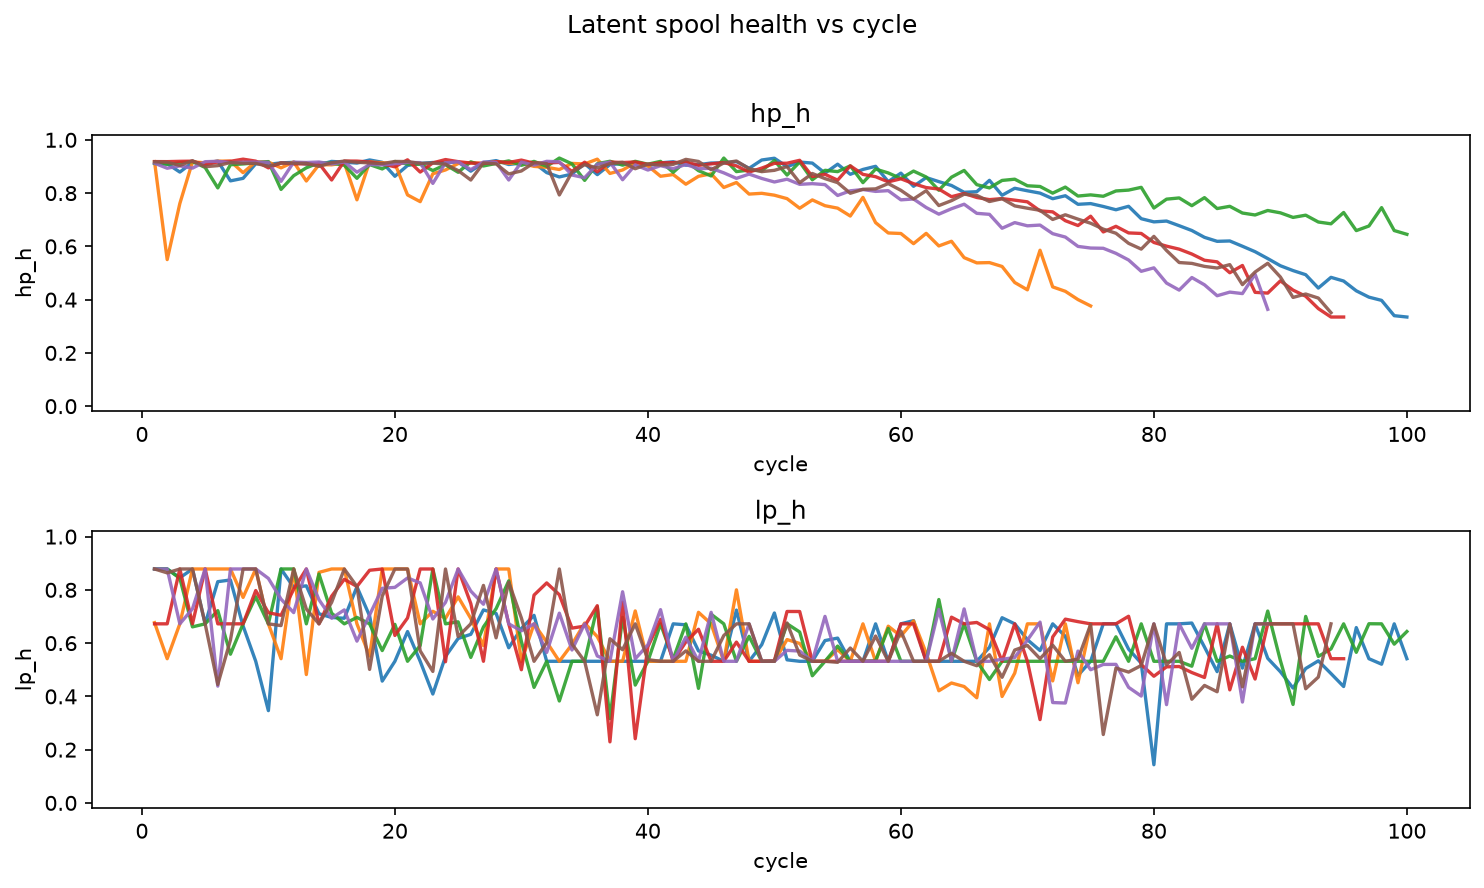
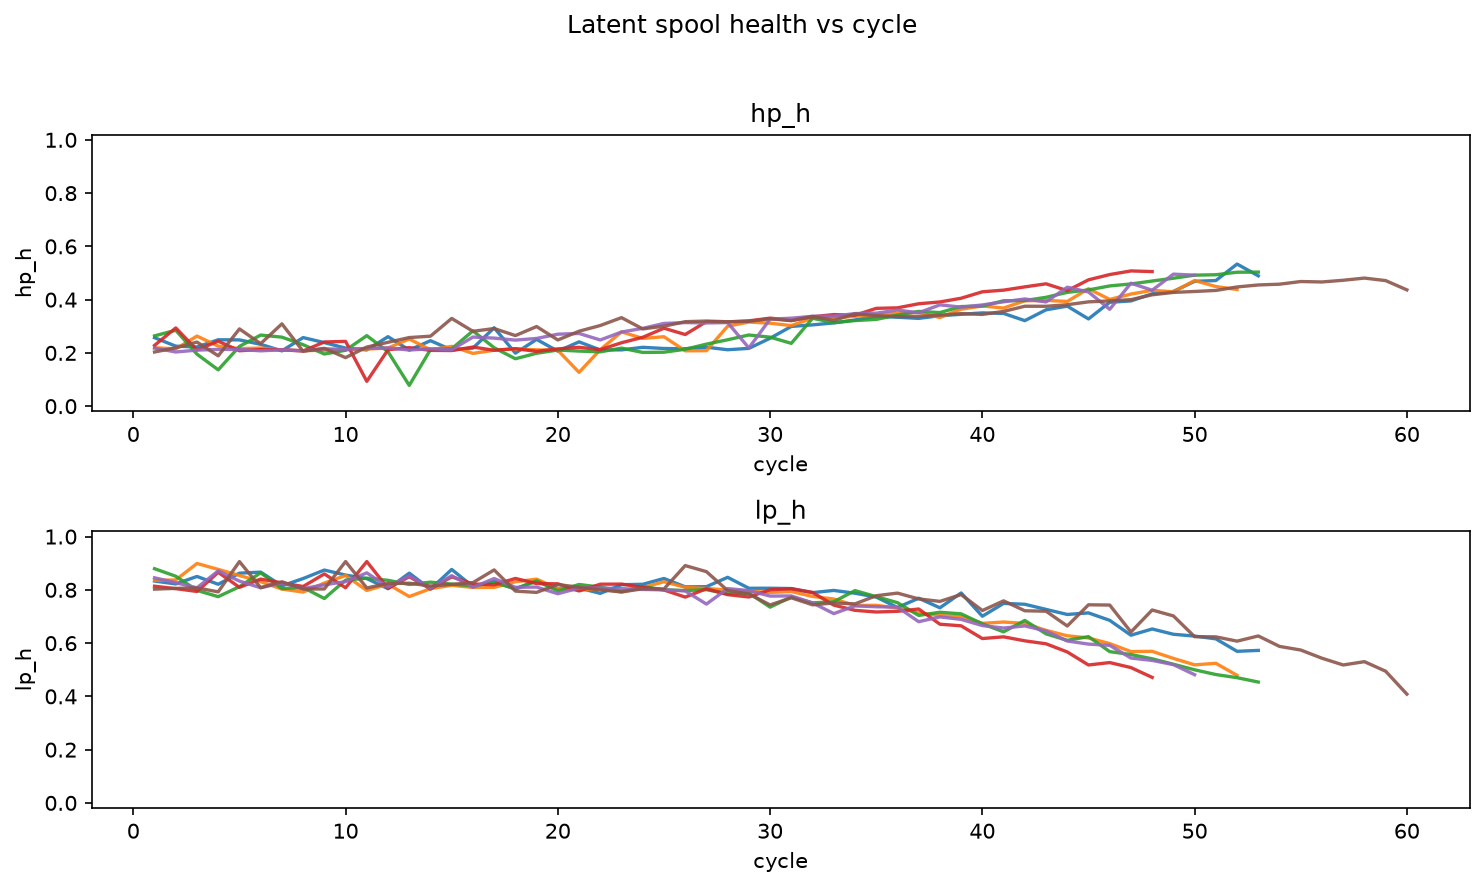
update

diff --git a/gft.py b/gft.py
@@ -81,18 +81,40 @@ def _fis(cols, centers, singletons):
 # A node with a theta target is a supervised leaf (output = theta_hat); a node
 # with target None is latent (spool damage in [0,1], or the RUL root).
 # Children must precede parents. Max 3 inputs per node. Root must be named "RUL".
+#
+# MEMBERSHIP FUNCTIONS PER INPUT: an input is either a bare name (uses the
+# default n_terms passed to fit_gft/build_tree) or a ("name", k) pair giving
+# that input its own k fuzzy sets. Mix freely, e.g.
+#     ("hpt_eff", [("T48", 5), ("P40", 3), "P45"], "HPT_eff_mod")
+# gives T48 five sets, P40 three, P45 the default. A node's rule count is the
+# PRODUCT of its inputs' set counts, so (5, 3, 3) -> 45 rules.
 
 TREE = [
-    ("hpt_eff",  ["T48", "P40", "P45"], "HPT_eff_mod"),
-    ("hpt_flow", ["T48", "P40", "P45"], "HPT_flow_mod"),
-    ("lpt_eff",  ["T50", "P50", "epr"], "LPT_eff_mod"),
-    ("lpt_flow", ["T50", "P50", "epr"], "LPT_flow_mod"),
-    ("hp",  ["hpt_eff", "hpt_flow"], None),      # HP-shaft damage  (in [0,1])
-    ("lp",  ["lpt_eff", "lpt_flow"], None),      # LP-shaft damage  (in [0,1])
-    ("RUL", ["hp", "lp", "age"], None),          # prognosis        (root)
+    ("hpt_eff",  ["T48", "P40", "Nc"],   "HPT_eff_mod"),   # HP: eff  -> speed
+    ("hpt_flow", ["T48", "P40", "Ps30"], "HPT_flow_mod"),  # HP: flow -> pressure
+    ("lpt_eff",  ["T50", "P50", "Nf"],   "LPT_eff_mod"),   # LP: eff  -> speed
+    ("lpt_flow", ["T50", "P50", "P24"],  "LPT_flow_mod"),  # LP: flow -> pressure
+    ("hp",  ["hpt_eff", "hpt_flow"], None),      # global HP-shaft damage
+    ("lp",  ["lpt_eff", "lpt_flow"], None),      # global LP-shaft damage
+    ("RUL", ["hp", "lp", "age"], None),          # prognosis (root)
 ]
+# Inputs are REAL measured sensors only (C-MAPSS Table 2, X_s):
+#   Wf Nf Nc T24 T30 T48 T50 P15 P21 P24 Ps30 P40 P50.
+# Virtual sensors (Table 3, X_v: T40 P30 P45 W* epr Sm* NR* PCNfR phi) are NOT
+# used. Symmetric by construction: each shaft (HP=HPT, LP=Fan/LPC/LPT) gets an
+# eff + a flow leaf feeding a global shaft-damage node. Every degrading modifier
+# is supervised; in DS02 HPT_flow is ~constant, so its leaf simply predicts that
+# constant (the tight consequent box keeps it noise-free) -- and the same tree
+# still works on failure modes where HPT flow actually moves.
 
 CONDITIONS = ["alt", "Mach", "TRA", "T2"]
+
+
+def _parse_input(inp, default):
+    """('name', k) -> (name, k);  'name' -> (name, default)."""
+    if isinstance(inp, (tuple, list)):
+        return inp[0], int(inp[1])
+    return inp, default
 
 
 def _node_names(tree):
@@ -101,32 +123,45 @@ def _node_names(tree):
 
 def _leaf_sensors(tree):
     names = _node_names(tree)
-    return sorted({c for _, ins, _ in tree for c in ins
-                   if c not in names and c != "age"})
+    out = set()
+    for _, ins, _ in tree:
+        for raw in ins:
+            c, _k = _parse_input(raw, 0)
+            if c not in names and c != "age":
+                out.add(c)
+    return sorted(out)
 
 
-def build_tree(frame, tree=TREE, n_terms=5):
-    """Resolve inputs against the frame and fix the fuzzy centres. Also record
-    each node's OUTPUT domain (theta quantiles / [0,1]) so parents can place
-    their own input centres consistently."""
+def _domain_centers(dom, k):
+    """k centres over a child node's output domain (theta quantiles / [0,1])."""
+    kind, data = dom
+    return _centers(data, k) if kind == "theta" else np.linspace(0, 1, k)
+
+
+def build_tree(frame, tree=TREE, n_terms=3):
+    """Resolve inputs against the frame and fix the fuzzy centres. Each input's
+    number of membership functions is its per-input k (or the default n_terms).
+    Records each node's OUTPUT domain so parents can partition it consistently."""
     out_dom, meta = {}, []
     for name, inputs, target in tree:
         tgt = target if (target in frame.columns) else None
         ins = []
-        for inp in inputs:
+        for raw in inputs:
+            inp, k = _parse_input(raw, n_terms)
             if inp in out_dom:                                 # child node output
-                ins.append({"kind": "node", "src": inp, "centers": out_dom[inp]})
+                ins.append({"kind": "node", "src": inp,
+                            "centers": _domain_centers(out_dom[inp], k)})
             elif inp in frame.columns:                         # sensor / age
                 x = frame[inp].to_numpy(float)
                 mu, sd = float(x.mean()), float(x.std()) or 1.0
                 ins.append({"kind": "col", "src": inp, "mu": mu, "sd": sd,
-                            "centers": _centers((x - mu) / sd, n_terms)})
+                            "centers": _centers((x - mu) / sd, k)})
         if not ins:
             continue
         n_rules = int(np.prod([len(i["centers"]) for i in ins]))
-        # output domain: theta quantiles for supervised leaves, else [0,1]
-        out_dom[name] = (_centers(frame[tgt].to_numpy(float), n_terms)
-                         if tgt is not None else np.linspace(0, 1, n_terms))
+        # output domain for this node's parents: theta data (any resolution) or [0,1]
+        out_dom[name] = (("theta", frame[tgt].to_numpy(float))
+                         if tgt is not None else ("unit", None))
         meta.append({"name": name, "inputs": ins, "n_rules": n_rules,
                      "target": tgt, "root": name == "RUL"})
     return meta
@@ -145,8 +180,13 @@ def genome_bounds(meta, frame, rul_hi, cons_pad=0.25):
             a, b = 0.0, rul_hi
         elif m["target"] is not None:
             y = frame[m["target"]].to_numpy(float)
-            span = (y.max() - y.min()) or 1.0
-            a, b = y.min() - cons_pad * span, y.max() + cons_pad * span
+            span = float(y.max() - y.min())
+            if span <= 1e-9:                 # (near-)constant target: pin tightly
+                v = float(y.mean())          # -> the leaf predicts ~this constant
+                eps = max(1e-6, abs(v) * 1e-3)
+                a, b = v - eps, v + eps
+            else:
+                a, b = y.min() - cons_pad * span, y.max() + cons_pad * span
         else:
             a, b = 0.0, 1.0
         lo += [a] * m["n_rules"]
@@ -196,7 +236,7 @@ def _tournament(fit, rng):
     return idx[np.argmin(fit[idx])]
 
 
-def genetic_optimize(loss, lo, hi, pop=200, gens=120, seed=1, x0=None,
+def genetic_optimize(loss, lo, hi, pop=80, gens=120, seed=0, x0=None,
                      verbose=True, label=""):
     """Tournament selection + BLX-alpha crossover + Gaussian mutation, with
     elitism and a slowly cooling mutation step. Returns (best, history)."""
@@ -215,7 +255,7 @@ def genetic_optimize(loss, lo, hi, pop=200, gens=120, seed=1, x0=None,
             lo_c = np.minimum(pa, pb) - 0.3 * np.abs(pa - pb)
             hi_c = np.maximum(pa, pb) + 0.3 * np.abs(pa - pb)
             child = rng.uniform(lo_c, hi_c)
-            mask = rng.random(n) < 0.35
+            mask = rng.random(n) < 0.2
             child[mask] += rng.normal(0, 1, mask.sum()) * sigma * span[mask]
             newP.append(np.clip(child, lo, hi))
         P = np.array(newP)
@@ -223,7 +263,7 @@ def genetic_optimize(loss, lo, hi, pop=200, gens=120, seed=1, x0=None,
         if fit.min() < best_fit:
             best_fit, best = fit.min(), P[fit.argmin()].copy()
         history.append(best_fit)
-        sigma = max(0.1, sigma * 0.97)
+        sigma = max(0.05, sigma * 0.97)
         if verbose and (t % 10 == 0 or t == gens - 1):
             print(f"  [{label}] gen {t + 1:3d}/{gens}  best={best_fit:.4f}  sigma={sigma:.3f}")
     return best, history
@@ -259,21 +299,42 @@ def apply_baselines(frame, coefs, conds):
     return f
 
 
+def smooth_inputs(frame, cols, span):
+    """EWMA-smooth `cols` along cycles WITHIN each unit (span<=1 = no-op).
+
+    The FIS is memoryless: it maps one cycle's cruise-mean sensors to theta_hat
+    with no temporal context, so per-cycle sensor noise passes straight into the
+    prediction. Smoothing the inputs here (identically at fit and predict time)
+    is the direct cure for the cycle-to-cycle jitter in theta_hat / RUL_hat."""
+    if not span or span <= 1:
+        return frame
+    order = frame.index
+    f = frame.sort_values(["unit", "cycle"]).copy()
+    for c in cols:
+        if c in f.columns:
+            f[c] = f.groupby("unit")[c].transform(
+                lambda s: s.ewm(span=span, min_periods=1).mean())
+    return f.loc[order]
+
+
 # ==========================================================================
 # 6. Fit / predict
 # ==========================================================================
 
 def fit_gft(frame, tree=TREE, n_terms=3, pop=80, gens=120, residualize=True,
-            rul_cap=None, theta_weight=1.0, seed=0, verbose=True):
+            smooth_span=0, rul_cap=None, theta_weight=1.0, seed=0, verbose=True):
     """Train the tree end-to-end on a hybrid loss:
         loss = NASA_score(RUL)  +  theta_weight * mean_leaf( RMSE(theta)/range ).
-    theta_weight=0 recovers pure RUL training. Returns a plain-dict model."""
+    theta_weight=0 recovers pure RUL training. smooth_span>1 applies EWMA
+    denoising to the sensor inputs per unit (0 = off; ~5-10 tames theta jitter).
+    Returns a plain-dict model."""
     frame = frame.reset_index(drop=True)
     conds = [c for c in CONDITIONS if c in frame.columns]
     baselines = None
     if residualize and len(conds) >= 2:
         baselines = fit_baselines(frame, _leaf_sensors(tree), conds)
         frame = apply_baselines(frame, baselines, conds)
+    frame = smooth_inputs(frame, _leaf_sensors(tree), smooth_span)
 
     meta = build_tree(frame, tree, n_terms)
     y = frame["RUL"].to_numpy(float)
@@ -304,7 +365,7 @@ def fit_gft(frame, tree=TREE, n_terms=3, pop=80, gens=120, residualize=True,
                                        verbose=verbose, label="GFT")
     return {"tree": tree, "meta": meta, "genome": genome, "history": history,
             "baselines": baselines, "conds": conds, "rul_cap": rul_cap,
-            "theta_weight": theta_weight}
+            "theta_weight": theta_weight, "smooth_span": smooth_span}
 
 
 def predict_gft(frame, model):
@@ -313,6 +374,8 @@ def predict_gft(frame, model):
     frame = frame.reset_index(drop=True)
     if model["baselines"] is not None:
         frame = apply_baselines(frame, model["baselines"], model["conds"])
+    frame = smooth_inputs(frame, _leaf_sensors(model["tree"]),
+                          model.get("smooth_span", 0))
     vals = predict_tree(frame, model["meta"], model["genome"])
     out = frame[["unit", "cycle"]].copy()
     for m in model["meta"]:
@@ -362,8 +425,10 @@ def _synthetic_frame(units=6, cycles=60, seed=0):
             rows.append({
                 "unit": u, "cycle": k, "age": float(k),
                 "alt": alt, "Mach": mach, "TRA": tra, "T2": t2,
-                "T48": sens(9.0), "P40": sens(2.0), "P45": sens(1.5),   # HPT
-                "T50": sens(7.0), "P50": sens(1.5), "epr": sens(1.0),   # LPT
+                "T48": sens(9.0), "P40": sens(2.0), "Nc": sens(1.5),      # HPT
+                "Ps30": sens(1.3),
+                "T50": sens(7.0), "P50": sens(1.5), "Nf": sens(1.0),      # LPT
+                "P24": sens(1.2),
                 "HPT_eff_mod": -d,        "HPT_flow_mod": -0.6 * d,
                 "LPT_eff_mod": -0.8 * d,  "LPT_flow_mod": -0.5 * d,
                 "since_onset": float(max(0, k - onset)),

diff --git a/ncmapss_features.py b/ncmapss_features.py
@@ -25,12 +25,11 @@ except ImportError:  # pragma: no cover
 
 CONDITIONS = ["alt", "Mach", "TRA", "T2"]
 
-# Sensors the tree may use (from X_s and X_v). Extend freely; missing ones are
-# just skipped. theta names are kept too (handy for diagnostics/plots).
-SENSORS = ["Nf", "Nc", "Wf", "T24", "T30", "T48", "T50",
-           "P15", "P21", "P24", "Ps30", "P30", "P40", "P45", "P50",
-           "W22", "W25", "W48", "W50", "epr", "NRf", "NRc",
-           "SmFan", "SmLPC", "SmHPC"]
+# REAL measured sensors only (C-MAPSS Table 2, X_s). Virtual sensors (Table 3,
+# X_v: T40 P30 P45 W21 W22 W25 W31 W32 W48 W50 epr Sm* NR* PCNfR phi) are
+# deliberately NOT loaded, so nothing downstream can use a virtual sensor.
+SENSORS = ["Wf", "Nf", "Nc", "T24", "T30", "T48", "T50",
+           "P15", "P21", "P24", "Ps30", "P40", "P50"]
 THETA = ["HPT_eff_mod", "HPT_flow_mod", "LPT_eff_mod", "LPT_flow_mod"]
 
 
@@ -51,8 +50,9 @@ def load_raw(path, split="dev") -> pd.DataFrame:
 
     with h5py.File(path, "r") as h:
         parts, cols = [], []
-        for grp, var in [("A", "A_var"), ("W", "W_var"), ("X_s", "X_s_var"),
-                         ("X_v", "X_v_var"), ("T", "T_var")]:
+        # X_v (virtual sensors) is intentionally NOT loaded -- real sensors only.
+        for grp, var in [("A", "A_var"), ("W", "W_var"),
+                         ("X_s", "X_s_var"), ("T", "T_var")]:
             data = get(h, f"{grp}_{split}")
             if data is not None:
                 parts.append(data)

diff --git a/run.py b/run.py
@@ -2,7 +2,7 @@ from ncmapss_features import cycle_features
 from gft import fit_gft, predict_gft, inspect
 from gft_analysis import analyze
 
-feats = cycle_features("N-CMAPSS_DS01-005.h5", split="dev")
+feats = cycle_features("N-CMAPSS_DS08c-008.h5", split="dev")
 
 # Hybrid loss: leaves supervised on theta (theta_weight), whole tree on RUL.
 # theta_weight=0 -> pure RUL training; raise it to trust the theta labels more.
